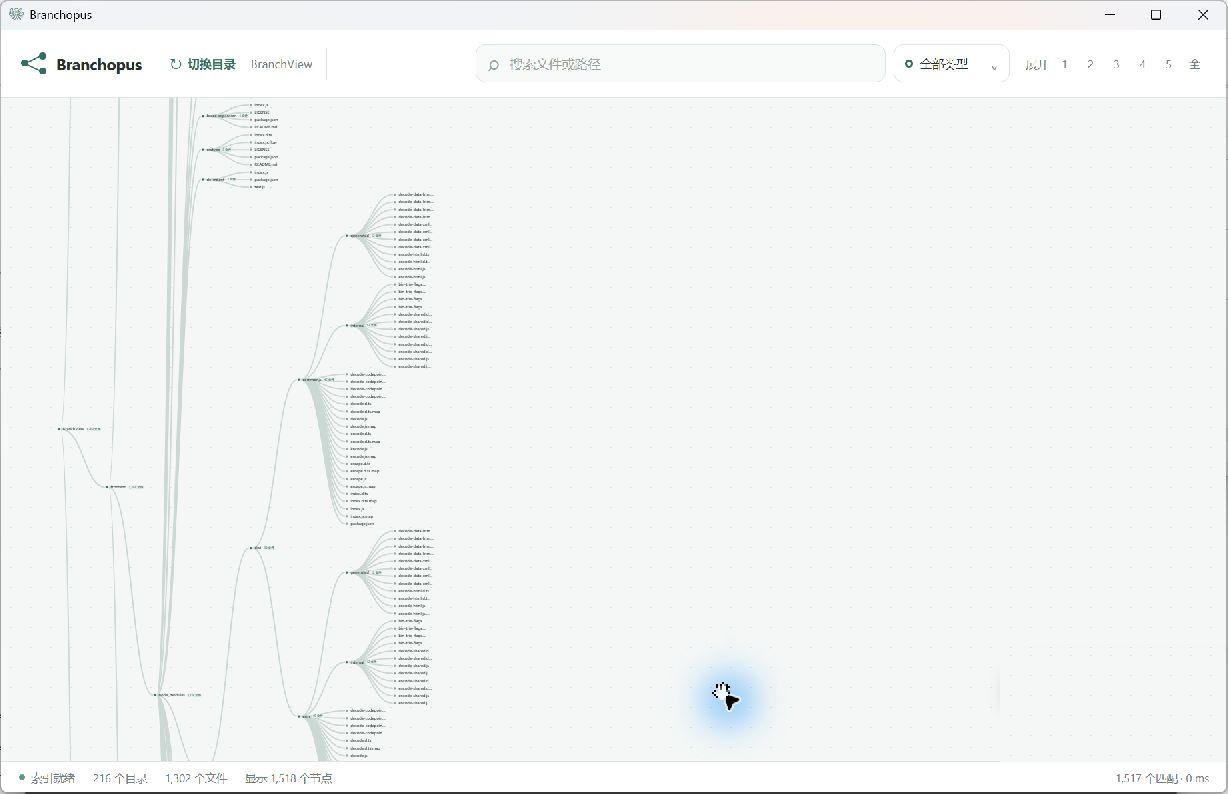
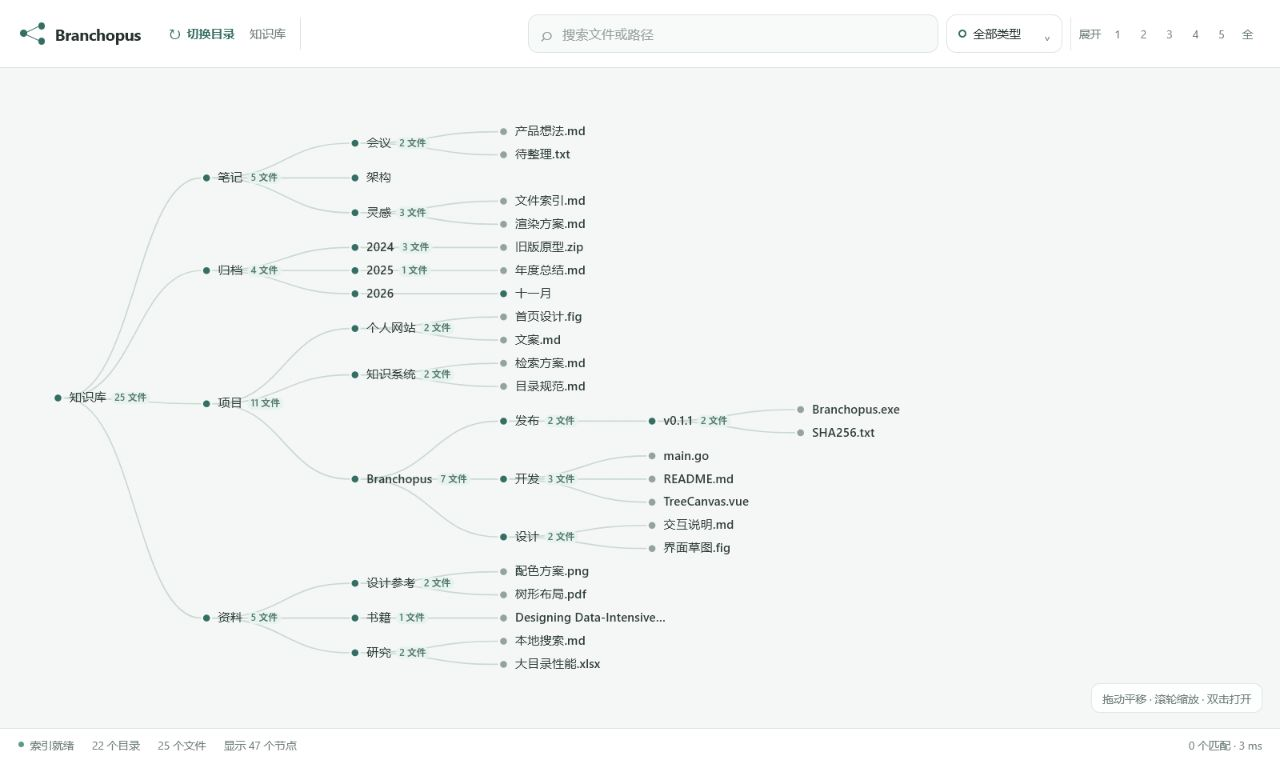
Refresh project presentation

diff --git a/README.md b/README.md
@@ -1,7 +1,8 @@
 <div align="center">
-  <img src="docs/assets/branchopus-icon.png" width="132" alt="Branchopus icon">
+  <img src="docs/assets/branchopus-icon.png" width="116" alt="Branchopus 图标">
   <h1>Branchopus</h1>
   <p>把本地文件夹展开成一棵真正的分叉树。</p>
+  <p><strong>目录再深，也不用一层层翻。</strong></p>
   <p>
     <a href="https://github.com/StillQuery/branchopus/releases/latest"><strong>下载 Windows 版</strong></a>
     ·
@@ -9,11 +10,31 @@
     ·
     <a href="#本地开发">本地开发</a>
   </p>
+  <p>
+    <img alt="Windows 10/11" src="https://img.shields.io/badge/Windows-10%20%2F%2011-356f63?style=flat-square">
+    <img alt="最新版本" src="https://img.shields.io/github/v/release/StillQuery/branchopus?style=flat-square&color=d77752&label=最新版本">
+    <img alt="MIT 许可证" src="https://img.shields.io/github/license/StillQuery/branchopus?style=flat-square&color=71807b&label=许可证">
+  </p>
 </div>
+
+![Branchopus 操作演示](docs/assets/branchopus-demo.gif)
+
+<div align="center">
+  <sub>选择目录 → 建立索引 → 搜索只保留命中节点和必要路径</sub>
+</div>
+
+| 一眼看全目录 | 搜索干净 | 按类型筛选 | 本地运行 |
+| --- | --- | --- | --- |
+| 真正的分叉树，可拖动、缩放 | 只显示命中节点和路径 | Markdown、PDF、图片等可组合筛选 | 数据留在本机，无需安装 |
+
+Branchopus 是一个轻量的 Windows 本地目录树查看器。它适合目录层级深、文件较多，又不想逐层打开资源管理器确认内容的场景。
+
+<details>
+<summary>查看完整界面</summary>
 
 ![Branchopus 主界面](docs/assets/branchopus-screenshot.png)
 
-Branchopus 是一个轻量的 Windows 本地目录树查看器。它适合目录层级深、文件较多，又不想逐层打开资源管理器确认内容的场景。
+</details>
 
 ## 功能
 
